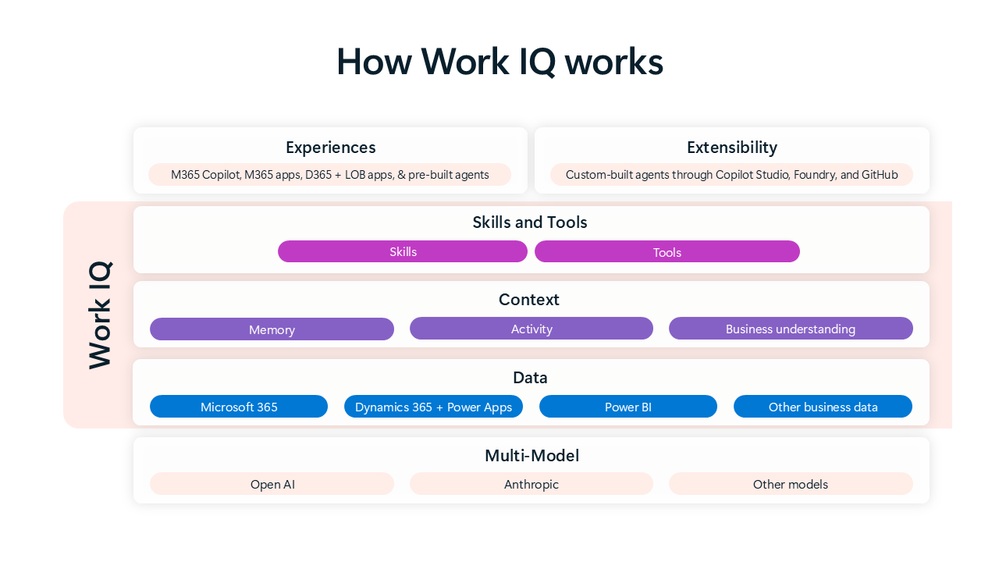
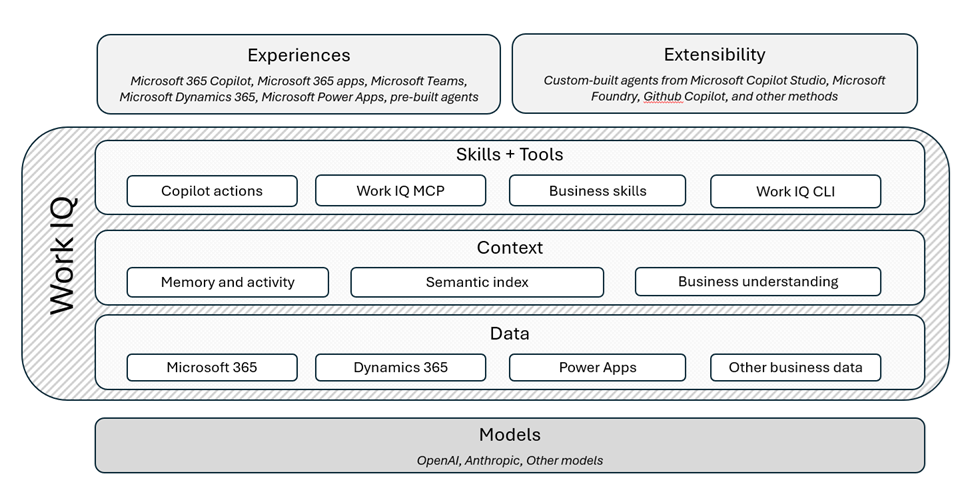
Review updates

diff --git a/docs/work-iq.md b/docs/work-iq.md
@@ -10,7 +10,7 @@ ms.topic: overview
 
 # Work IQ overview
 
-Work IQ is the intelligence layer that personalizes Microsoft 365 Copilot for users and organizations. It understands work context, relationships, and patterns, so Copilot and agents can provide faster, more accurate, and more secure responses than connector-only approaches.
+Work IQ is the intelligence layer that personalizes Microsoft 365 Copilot for users and organizations. Built atop leading foundation models from providers like OpenAI and Anthropic, it understands work context, relationships, and patterns so Copilot and agents can deliver faster, more accurate, and more secure responses than connector-only approaches.
 
 Work IQ combines three integrated layers: *data*, *context*, and *skills / tools*. Together, these layers ground Copilot in organizational information and business signals so responses are relevant to how work actually happens.
 
@@ -28,21 +28,29 @@ The data layer provides secure access to structured and unstructured information
 
 [Microsoft Graph](/graph/overview) data represents all the data from your Microsoft 365 tenant, including permission-based and information-protected content in SharePoint and OneDrive, including Word, Excel, PowerPoint and other file types, as well as Outlook emails, and Teams meetings and chats. It also includes metadata and signals that describe collaboration, communication, and activity patterns over time.
 
-### Copilot connectors
-
-[Copilot connectors](/microsoft-365/copilot/connectors/) extend the foundation of your tenant data by ingesting data from non-Microsoft systems and line-of-business applications, including prebuilt and custom connectors. As a result, Copilot can reason over a broader business data estate within the tenant boundary.
-
 ### Dynamics 365 and Power Apps business data
 
 Work IQ also integrates Dynamics 365 and Power Apps data through [Dataverse](/power-apps/maker/data-platform/), which stores structured business datasets for those applications. This integration enables Copilot to reason across productivity data and systems-of-record data together, such as linking supplier issues discussed in a Teams call with downstream inventory and sales effects.
+
+### External business data from Copilot connectors
+
+[Copilot connectors](/microsoft-365/copilot/connectors/) extend the foundation of your tenant data by ingesting data from non-Microsoft systems and line-of-business applications, including prebuilt and custom connectors. As a result, Copilot can reason over a broader business data estate within the tenant boundary.
+
+[Federated connectors](/microsoft-365/copilot/connectors/federated-connectors-overview) (early access preview) offer an alternativ way to bring your organization's data into Microsoft 365 that skips traditional indexing. Instead of crawling and syncing content into Microsoft Graph, federated connectors use Model Context Protocol (MCP) to read data in real time, making live or sensitive data sources discoverable through Copilot without inclusion to the [semantic index](#semantic-index).
 
 ## Context
 
 The context layer expands beyond baseline grounding with continuously evolving insights that improve response speed and relevance. Work IQ helps Copilot understand how people and organizations work, including skill profiles, important projects, collaboration frequency, workflow criticality, and communication velocity.
 
-[Copilot memory](/copilot/microsoft-365/copilot-personalization-memory) captures explicit [user actions](https://support.microsoft.com/topic/get-started-with-personalizing-what-microsoft-365-copilot-remembers-cba7b79a-c46f-4ca7-b46e-2fa22c563f90) (including custom instructions and saved memories) and implicit signals from chat history. The [semantic index](/microsoftsearch/semantic-index-for-copilot) improves retrieval accuracy by matching on meaning rather than keywords, and includes connector-ingested content while respecting permissions, sensitivity labels, and tenant boundaries.
+### Memory and activity signals
 
-### Dataverse intelligence
+[Copilot memory](/copilot/microsoft-365/copilot-personalization-memory) captures explicit [user actions](https://support.microsoft.com/topic/get-started-with-personalizing-what-microsoft-365-copilot-remembers-cba7b79a-c46f-4ca7-b46e-2fa22c563f90) (including custom instructions and saved memories) and implicit signals from user activity patterns.
+
+### Semantic index
+
+With [semantic indexing](/microsoftsearch/semantic-index-for-copilot), Microsoft 365 Copilot maps your organization’s data into an advanced lexical and semantic index to power search relevance and accuracy, while ensuring organizational boundaries annd permission structurs within your tenant are respected. The semantic index is a superset of content within [Microsoft Graph](#microsoft-365-tenant-data) and ingested content from [Copilot connectors](#copilot-connectors). 
+
+### Busineses understanding with Dataverse intelligence
 
 Where Work IQ grounds Copilot in work productivity artifacts like files, meetings, and messages, [Dataverse intelligence](/power-apps/maker/data-platform/data-platform-intelligence) extends this foundation to structured business data, enabling agents to understand and act on your organization's systems of record.
 
@@ -50,17 +58,17 @@ Where Work IQ grounds Copilot in work productivity artifacts like files, meeting
 
 The skills and tools layer puts Work IQ intelligence into operation. Skills provide task-specific instructions that help Copilot and agents complete specialized work with higher speed and precision. If skills describe what actions to take, tools execute those actions. Tools are the concrete integrations—MCP server tools, API plugins, and others services—that an agent calls to actually perform work.
 
-### Business skills
-
-[Business skills with Dataverse intelligence](/power-apps/maker/data-platform/data-platform-business-skill-overview) are natural-language instructions that encode your organization's processes, policies, and domain knowledge in a format agents can interpret and execute. Each skill defines how to complete a specific type of work — the steps, required inputs, and business rules that apply. At runtime, agents discover and apply relevant skills to complete tasks according to your organization's processes. When multiple agents share the same skill, they follow the same logic, ensuring consistent behavior across your organization.
-
-### Work IQ MCP tools
-
-Microsoft Agent 365 offers a rich catalog of [Work IQ MCP](/microsoft-agent-365/tooling-servers-overview) tools that enable agents to perform real-time actions within Microsoft 365 contexts, including mail, calendar, Teams, SharePoint, OneDrive, Word, Dataverse, and more. You can also build and publish custom MCP servers using the MCP Management Server, which supports connectors, Graph APIs, Dataverse custom APIs, and arbitrary REST endpoints. Agent 365 gives IT administrators centralized control to manage which Work IQ MCP servers and other MCP servers are available to agents.
-
 ### Copilot actions
 
 [Copilot actions](/microsoft-365/copilot/extensibility/overview-plugins), implemented as plugins, enable declarative agents in Microsoft 365 Copilot to interact with MCP servers or REST APIs that have an OpenAPI description. With a plugin, users can ask a declarative agent to not only query for information, but to create, update, and delete data and objects within an external system. Anything the MCP server or REST API can do is accessible via natural language prompts.
+
+### Work IQ MCP tools
+
+Microsoft Agent 365 offers a rich catalog of [Work IQ MCP](/microsoft-agent-365/tooling-servers-overview) (preview) tools that enable agents to perform real-time actions within Microsoft 365 contexts, including mail, calendar, Teams, SharePoint, OneDrive, Word, Dataverse, and more. You can also build and publish custom MCP servers using the MCP Management Server, which supports connectors, Graph APIs, Dataverse custom APIs, and arbitrary REST endpoints. You can easily add Work IQ MCP tools to your agents in [Microsoft Copilot Studio](/microsoft-copilot-studio/use-work-iq) and [Microsoft Foundry](/microsoft-agent-365/tooling-servers-overview?view=o365-worldwide#get-started-in-microsoft-foundry). Agent 365 gives IT admins centralized control to manage which Work IQ MCP servers and other MCP servers are available to agents.
+
+### Business skills
+
+[Business skills with Dataverse intelligence](/power-apps/maker/data-platform/data-platform-business-skill-overview) (preview) are natural-language instructions that encode your organization's processes, policies, and domain knowledge in a format agents can interpret and execute. Each skill defines how to complete a specific type of work — the steps, required inputs, and business rules that apply. At runtime, agents discover and apply relevant skills to complete tasks according to your organization's processes. When multiple agents share the same skill, they follow the same logic, ensuring consistent behavior across your organization.
 
 ### Work IQ CLI
 
